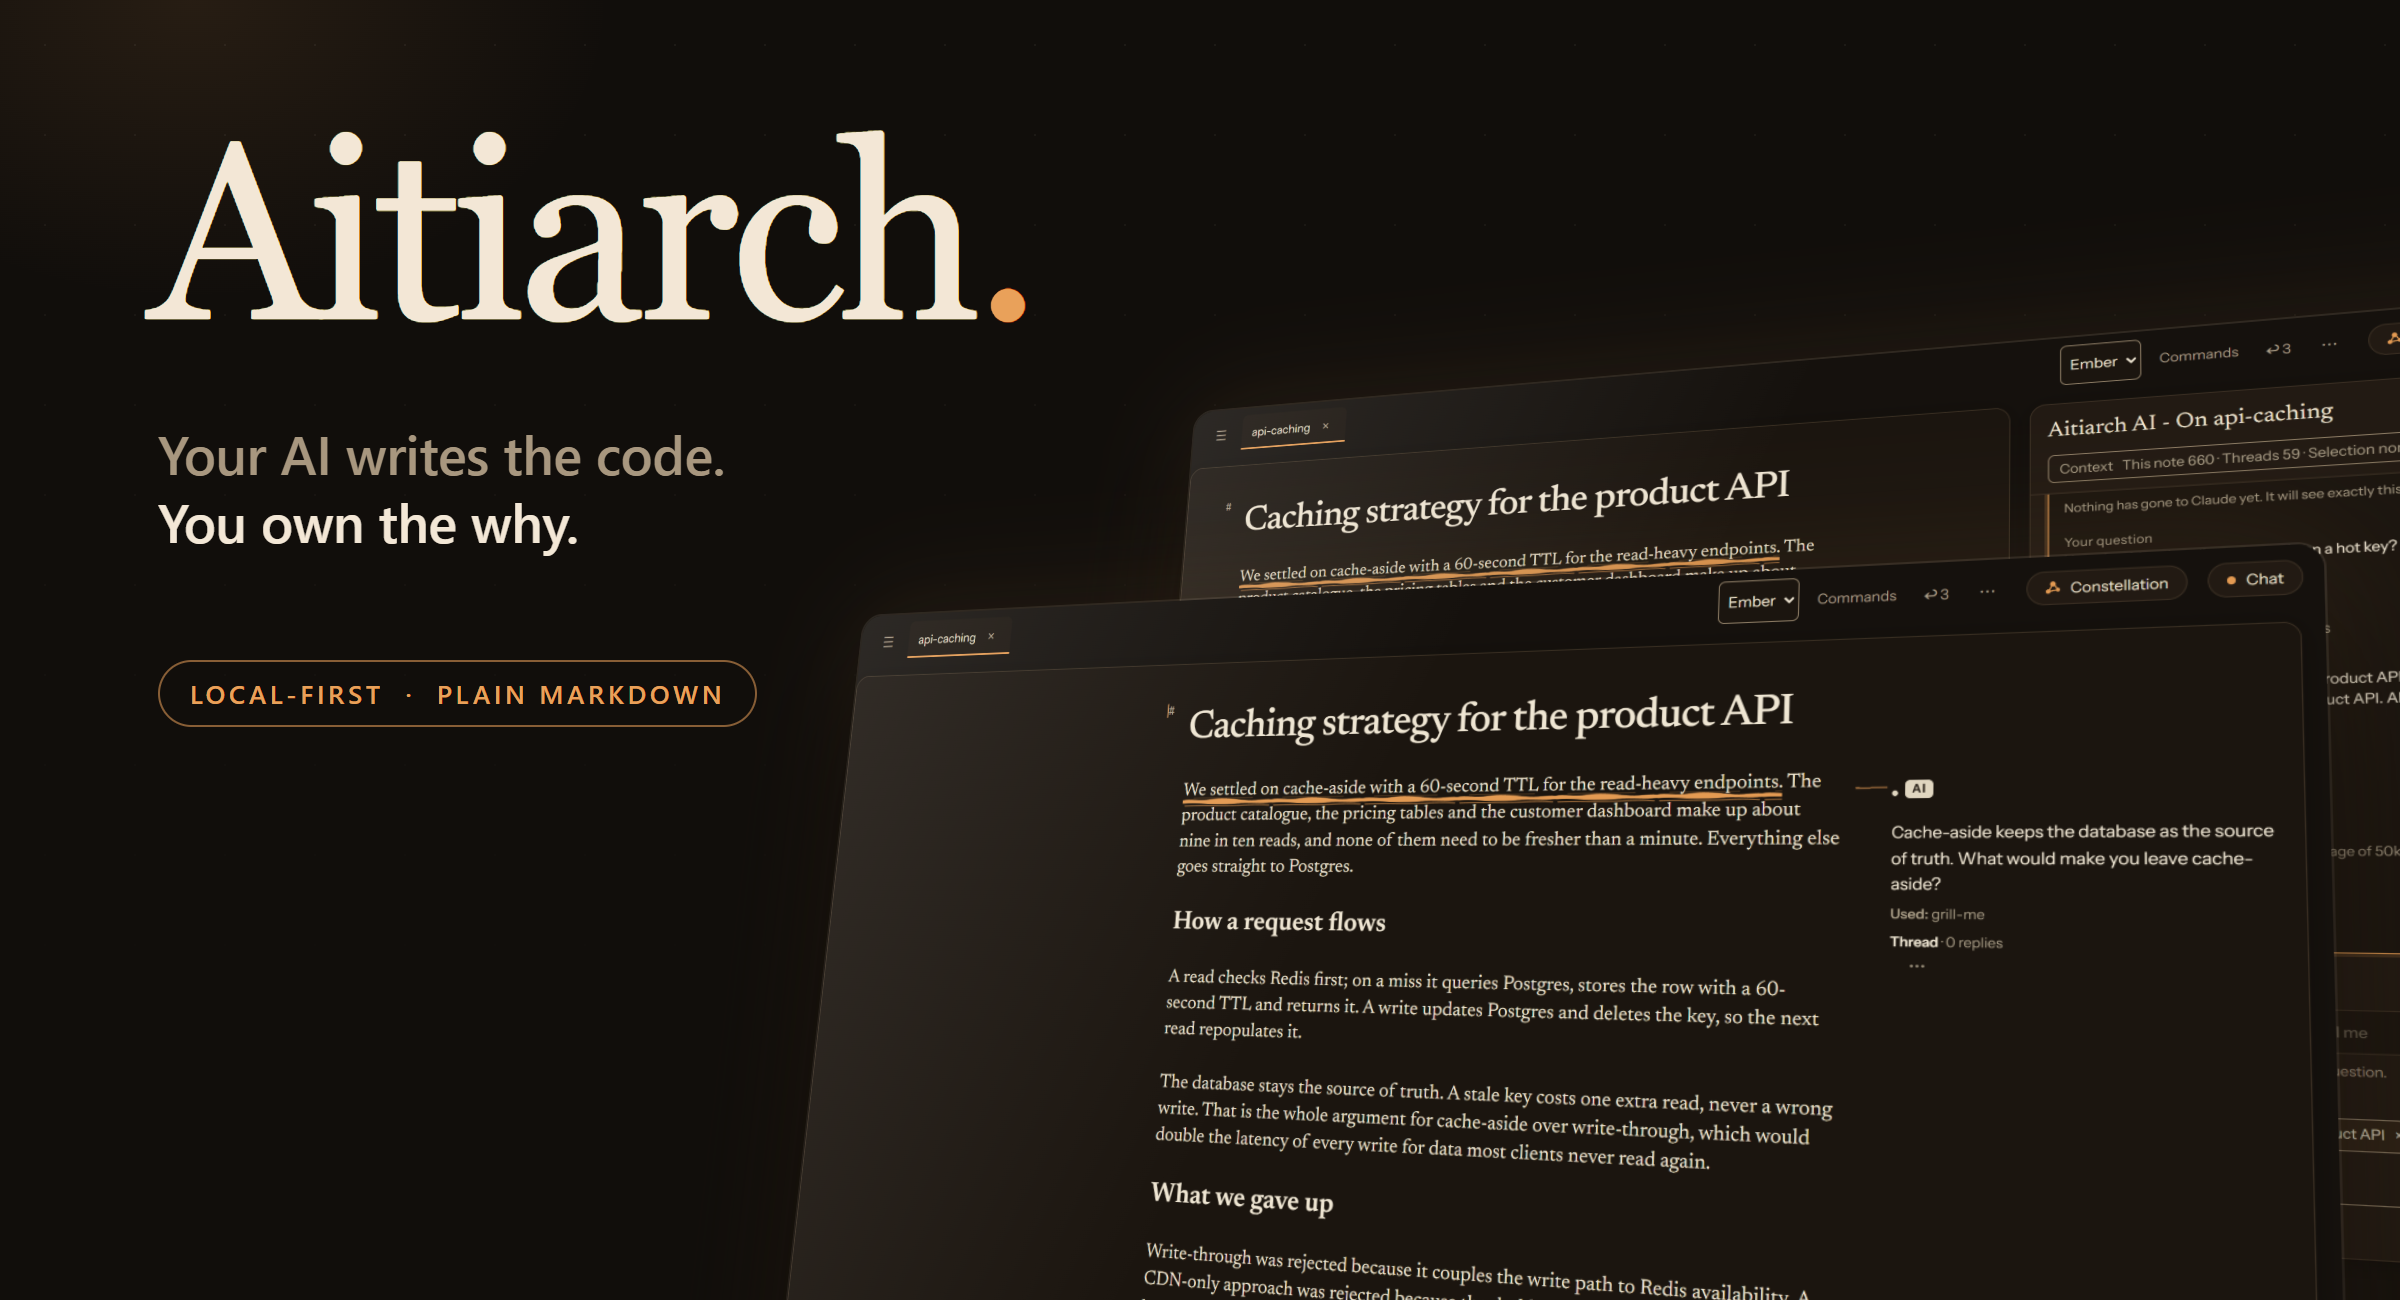
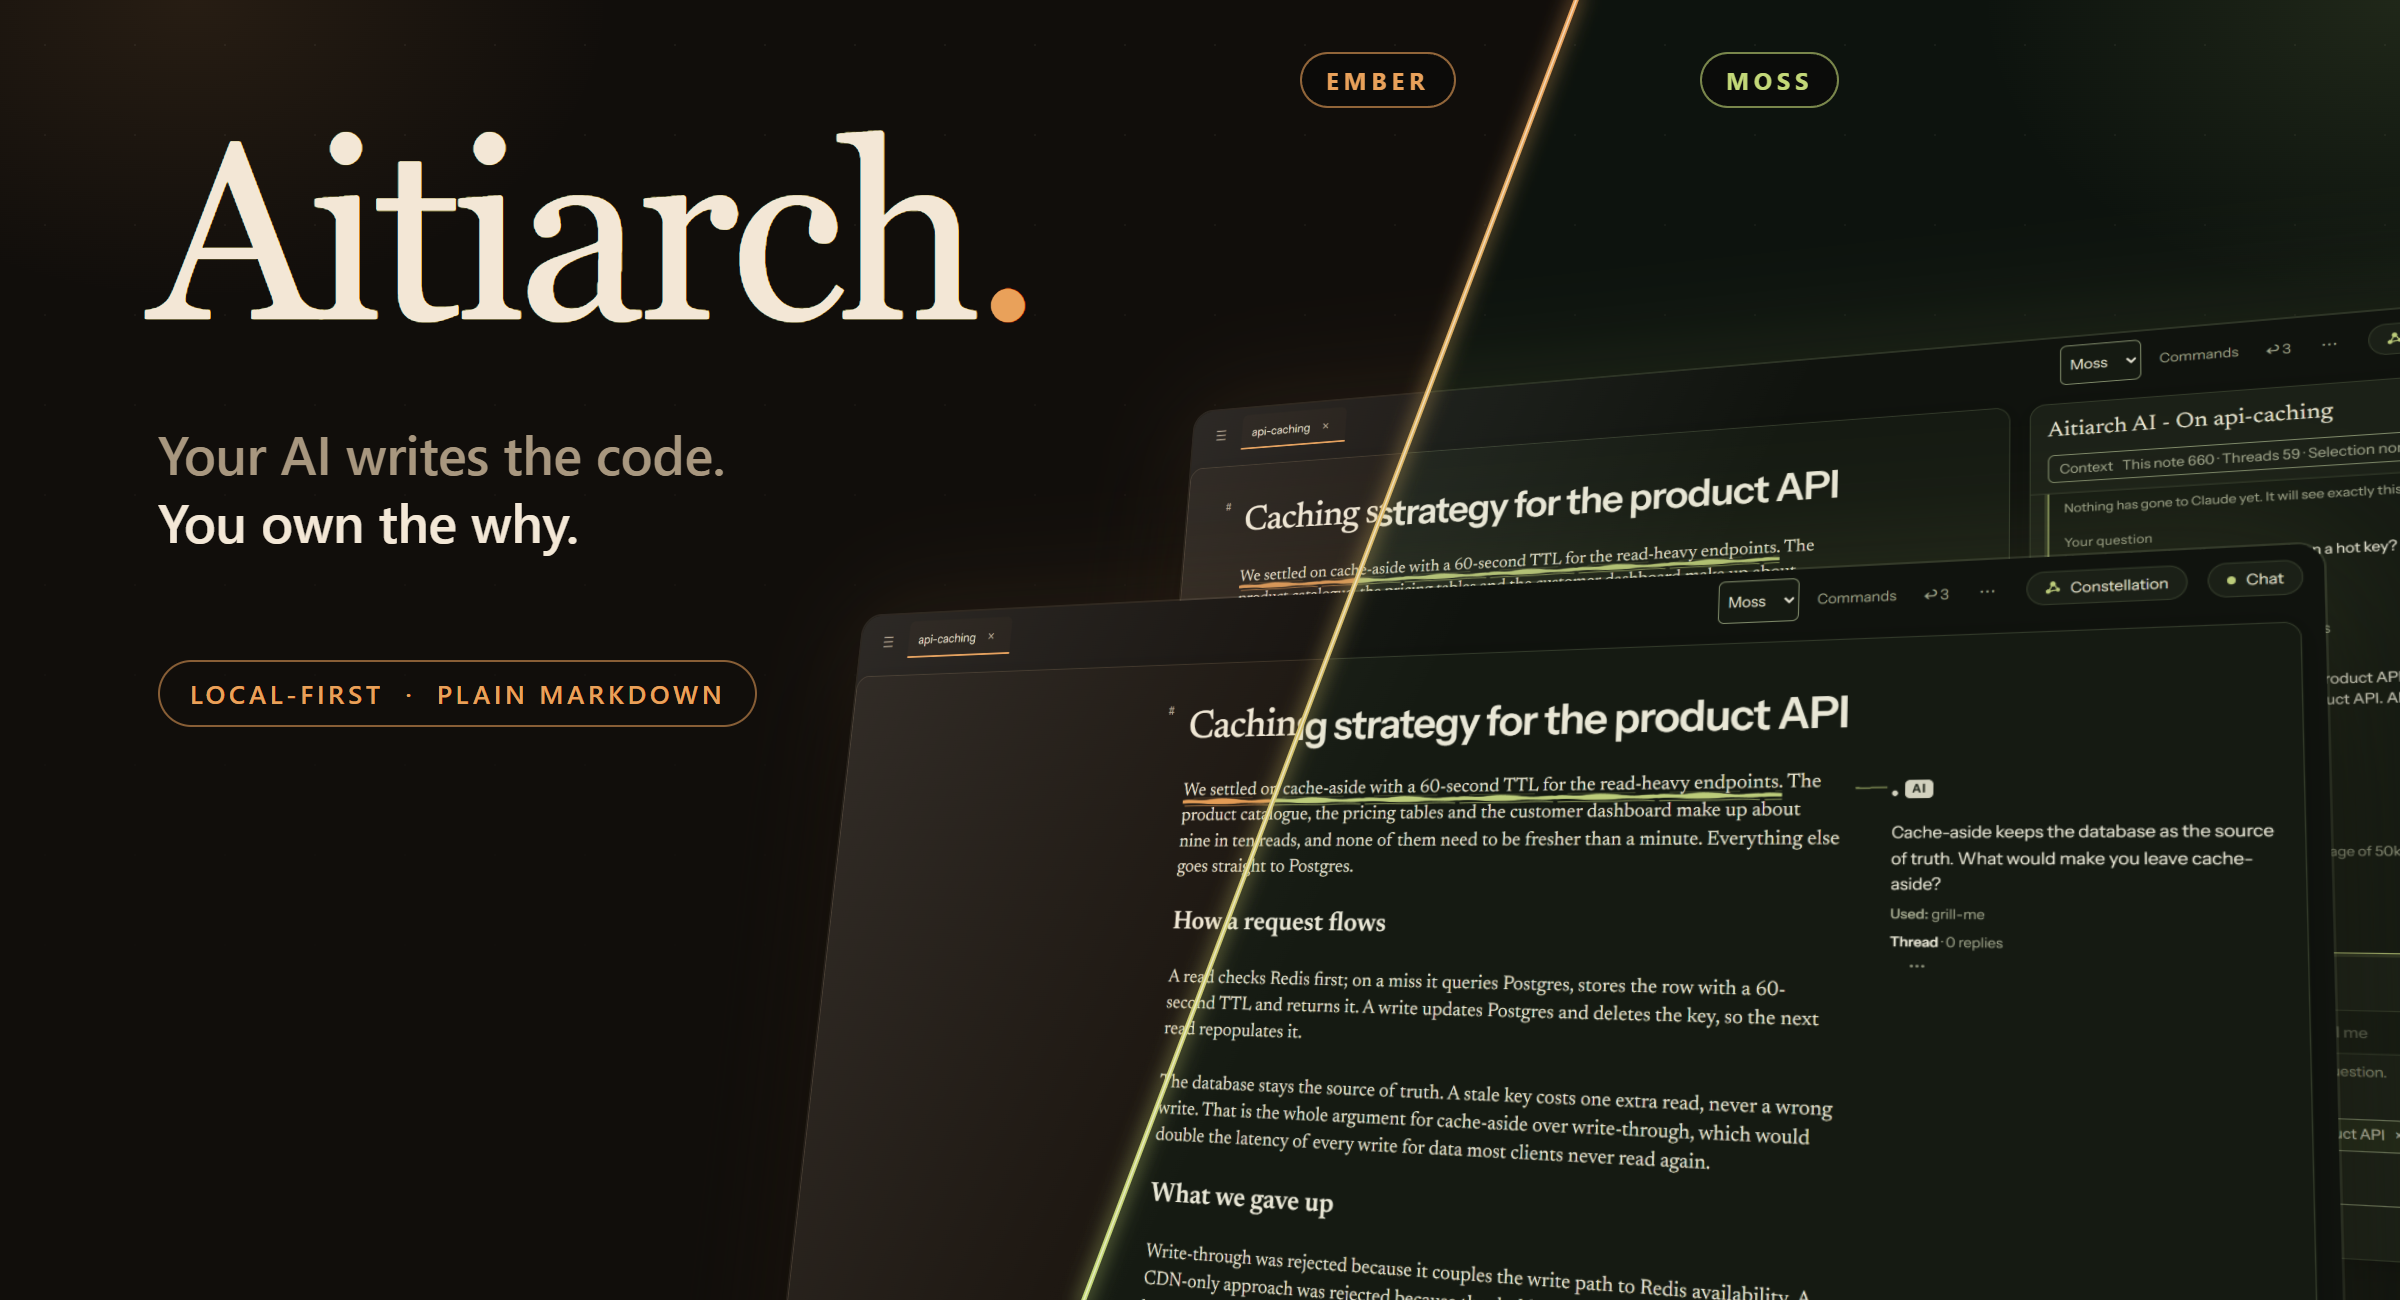
docs: the hero shows both themes, Ember and Moss, split by a diagonal
The same tilted editor and review-card screenshots are drawn twice, amber Ember on the left and green Moss on the right, with a glowing seam between them.

diff --git a/README.md b/README.md
@@ -1,6 +1,6 @@
 <div align="center">
 
-<img src="docs/media/hero.png" alt="Aitiarch. Your AI writes the code. You own the why." width="100%">
+<img src="docs/media/hero.png" alt="Aitiarch. Your AI writes the code. You own the why. The same screens in both themes, amber Ember on the left and green Moss on the right, split by a diagonal." width="100%">
 
 <br>
 
